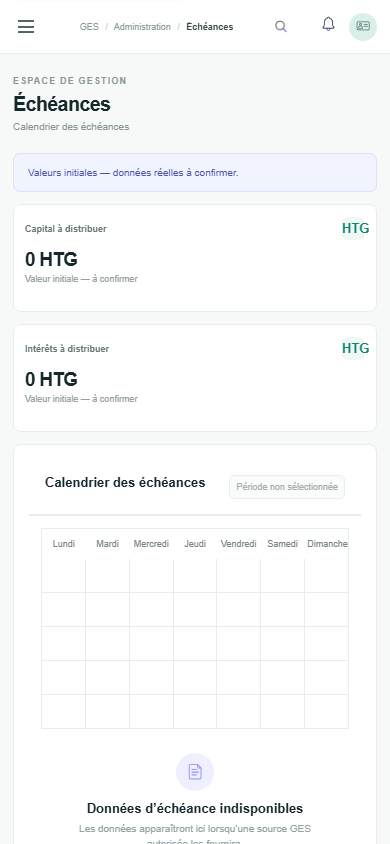
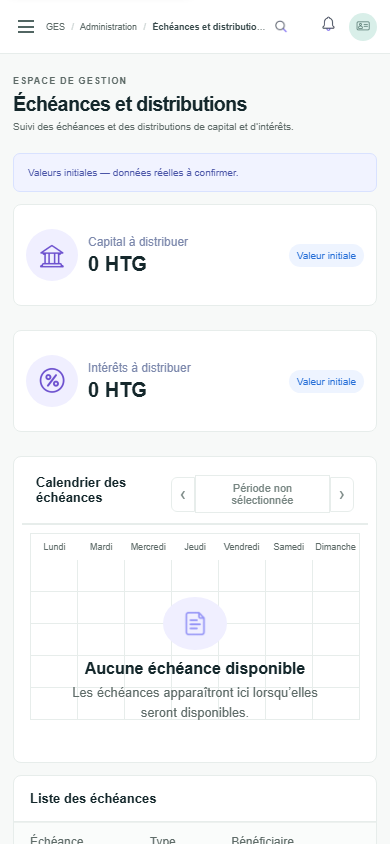
Align maturities view with MF-20

diff --git a/components/module-workspace.tsx b/components/module-workspace.tsx
@@ -6,9 +6,12 @@ import Image from "next/image";
 type ModulePage = {
   columns: string[];
   empty: string;
+  emptyDescription?: string;
   filters: string[];
   description: string;
+  title?: string;
   searchPlaceholder?: string;
+  showSearch?: boolean;
   tabs?: string[];
 };
 
@@ -28,12 +31,16 @@ const pages: Record<string, ModulePage> = {
   audit: { description: "Journal des événements administratifs disponibles.", filters: ["Toutes les actions", "Tous les acteurs", "Période"], columns: ["DATE ET HEURE", "ACTEUR", "ACTION", "ENTITÉ CONCERNÉE", "RÉSULTAT", "DÉTAILS"], empty: "Données d’audit indisponibles" },
 };
 
-function EmptyState({ title, searching }: { title: string; searching: boolean }) {
-  return <div className="module-empty"><div className="module-empty-icon"><Image src={`/assets/icons/${searching ? "search" : "document"}.webp`} alt="" width={20} height={20}/></div><h2>{searching ? "Résultats de recherche indisponibles" : title}</h2><p>{searching ? "Aucune source GES autorisée n’a fourni de données à filtrer." : "Les données apparaîtront ici lorsqu’une source GES autorisée les fournira."}</p></div>;
+function EmptyState({ title, searching, description }: { title: string; searching: boolean; description?: string }) {
+  return <div className="module-empty"><div className="module-empty-icon"><Image src={`/assets/icons/${searching ? "search" : "document"}.webp`} alt="" width={20} height={20}/></div><h2>{searching ? "Résultats de recherche indisponibles" : title}</h2><p>{searching ? "Aucune source GES autorisée n’a fourni de données à filtrer." : description ?? "Les données apparaîtront ici lorsqu’une source GES autorisée les fournira."}</p></div>;
 }
 
 function InitialValueCard({ label }: { label: string }) {
   return <section className="metric-card"><div className="metric-top"><span>{label}</span><span className="metric-symbol">HTG</span></div><strong>0 HTG</strong><small>Valeur initiale — à confirmer</small></section>;
+}
+
+function DistributionValueCard({ label, icon }: { label: string; icon: string }) {
+  return <section className="panel distribution-value-card"><div className="distribution-value-icon"><Image src={`/assets/icons/${icon}.webp`} alt="" width={28} height={28}/></div><div><span>{label}</span><strong>0 HTG</strong></div><small>Valeur initiale</small></section>;
 }
 
 export function ModuleWorkspace({ sectionKey, query, onQueryChange }: { sectionKey: string; query: string; onQueryChange: (value: string) => void }) {
@@ -54,9 +61,9 @@ export function ModuleWorkspace({ sectionKey, query, onQueryChange }: { sectionK
   </>;
   if (sectionKey === "echeances") return <>
     <div className="module-notice">Valeurs initiales — données réelles à confirmer.</div>
-    <div className="module-two-panels"><InitialValueCard label="Capital à distribuer"/><InitialValueCard label="Intérêts à distribuer"/></div>
-    <section className="panel module-subpanel"><div className="module-panel-header"><h2>Calendrier des échéances</h2><button disabled className="filter-button">Période non sélectionnée</button></div><div className="calendar-empty"><div className="calendar-weekdays">{["Lundi", "Mardi", "Mercredi", "Jeudi", "Vendredi", "Samedi", "Dimanche"].map((day) => <span key={day}>{day}</span>)}</div><div className="calendar-blank-grid" aria-hidden="true">{Array.from({length:35}, (_, index) => <span key={index}/>)}</div><EmptyState title="Données d’échéance indisponibles" searching={false}/></div></section>
-    <GenericTable sectionKey={sectionKey} page={{ description: "Échéances disponibles.", filters: [], columns: ["ÉCHÉANCE", "TYPE", "BÉNÉFICIAIRE", "MONTANT (HTG)", "STATUT"], empty: "Données d’échéance indisponibles" }} query={query} onQueryChange={onQueryChange} activeTab={activeTab} setActiveTab={setActiveTab}/>
+    <div className="module-two-panels distribution-values"><DistributionValueCard label="Capital à distribuer" icon="treasury"/><DistributionValueCard label="Intérêts à distribuer" icon="interest"/></div>
+    <section className="panel module-subpanel calendar-panel"><div className="module-panel-header"><h2>Calendrier des échéances</h2><div className="calendar-period-controls"><button type="button" disabled aria-label="Période précédente">‹</button><button type="button" disabled>Période non sélectionnée</button><button type="button" disabled aria-label="Période suivante">›</button></div></div><div className="calendar-empty"><div className="calendar-weekdays">{["Lundi", "Mardi", "Mercredi", "Jeudi", "Vendredi", "Samedi", "Dimanche"].map((day) => <span key={day}>{day}</span>)}</div><div className="calendar-blank-grid" aria-hidden="true">{Array.from({length:35}, (_, index) => <span key={index}/>)}</div><EmptyState title="Aucune échéance disponible" description="Les échéances apparaîtront ici lorsqu’elles seront disponibles." searching={false}/></div></section>
+    <GenericTable sectionKey={sectionKey} page={{ title: "Liste des échéances", description: "", filters: [], showSearch: false, columns: ["Échéance", "Type", "Bénéficiaire", "Montant (HTG)", "Statut"], empty: "Aucune échéance disponible", emptyDescription: "Les échéances apparaîtront ici lorsqu’elles seront disponibles." }} query={query} onQueryChange={onQueryChange} activeTab={activeTab} setActiveTab={setActiveTab}/>
   </>;
   if (sectionKey === "rapports") return <>
     <section className="panel module-subpanel"><div className="module-panel-header"><h2>Vue analytique</h2><div className="module-filter-row"><button disabled className="filter-button">Type de rapport</button><button disabled className="filter-button">Période non sélectionnée</button></div></div><EmptyState title="Aucune donnée de rapport disponible" searching={false}/></section>
@@ -73,5 +80,5 @@ export function ModuleWorkspace({ sectionKey, query, onQueryChange }: { sectionK
 }
 
 function GenericTable({ sectionKey, page, query, onQueryChange, activeTab, setActiveTab }: { sectionKey: string; page: ModulePage; query: string; onQueryChange: (value: string) => void; activeTab: number; setActiveTab: (value: number) => void }) {
-  return <section className="panel list-panel module-list-panel">{page.tabs && <div className="module-tabs">{page.tabs.map((tab, index) => <button key={tab} className={activeTab === index ? "selected" : ""} onClick={() => setActiveTab(index)}>{tab}</button>)}</div>}<div className="module-toolbar"><label className="filter-search"><Image src="/assets/icons/search.webp" alt="" width={16} height={16}/><input aria-label={`Rechercher dans ${sectionKey}`} placeholder={page.searchPlaceholder ?? `Rechercher ${sectionKey.replaceAll("-", " ")}…`} value={query} onChange={(event) => onQueryChange(event.target.value)}/></label><div className="module-filter-row">{page.filters.map((filter) => <button key={filter} className="filter-button" disabled>{filter.startsWith("Sélectionner une période") && <Image className="period-filter-icon" src="/assets/icons/calendar.webp" alt="" width={16} height={16}/>}<span className="filter-label">{filter}</span><span>⌄</span></button>)}</div></div><div className="table-wrap"><table><thead><tr>{page.columns.map((column, index) => <th key={column} className={column.includes("HTG") ? "align-right" : ""}>{column}</th>)}</tr></thead><tbody><tr><td colSpan={page.columns.length}><EmptyState title={page.empty} searching={query.trim().length > 0}/></td></tr></tbody></table></div></section>;
+  return <section className={`panel list-panel module-list-panel ${page.showSearch === false ? "no-list-search" : ""}`}>{page.title && <div className="module-panel-header"><div><h2>{page.title}</h2>{page.description && <p>{page.description}</p>}</div></div>}{page.tabs && <div className="module-tabs">{page.tabs.map((tab, index) => <button key={tab} className={activeTab === index ? "selected" : ""} onClick={() => setActiveTab(index)}>{tab}</button>)}</div>}{page.showSearch !== false && <div className="module-toolbar"><label className="filter-search"><Image src="/assets/icons/search.webp" alt="" width={16} height={16}/><input aria-label={`Rechercher dans ${sectionKey}`} placeholder={page.searchPlaceholder ?? `Rechercher ${sectionKey.replaceAll("-", " ")}…`} value={query} onChange={(event) => onQueryChange(event.target.value)}/></label><div className="module-filter-row">{page.filters.map((filter) => <button key={filter} className="filter-button" disabled>{filter.startsWith("Sélectionner une période") && <Image className="period-filter-icon" src="/assets/icons/calendar.webp" alt="" width={16} height={16}/>}<span className="filter-label">{filter}</span><span>⌄</span></button>)}</div></div>}<div className="table-wrap"><table><thead><tr>{page.columns.map((column, index) => <th key={column} className={column.includes("HTG") ? "align-right" : ""}>{column}</th>)}</tr></thead><tbody><tr><td colSpan={page.columns.length}><EmptyState title={page.empty} description={page.emptyDescription} searching={query.trim().length > 0}/></td></tr></tbody></table></div></section>;
 }

diff --git a/app/globals.css b/app/globals.css
@@ -64,3 +64,6 @@ a:focus-visible,button:focus-visible,input:focus-visible,select:focus-visible,te
 .subscription-detail-grid{gap:12px;margin:14px 0 18px}.subscription-detail-grid .detail-data-card{min-height:198px;align-items:stretch;justify-content:flex-start;padding:18px 22px;text-align:left}.subscription-detail-grid .detail-data-card>h2,.subscription-actions-panel>h2{font:700 16px Arial,Helvetica,sans-serif;margin:0}.subscription-detail-state{flex:1;display:flex;align-items:center;justify-content:center;flex-direction:column;text-align:center}.subscription-detail-state .detail-data-icon{width:64px;height:64px;margin-bottom:10px;background:#eef1f5}.subscription-detail-state .detail-data-icon img{width:30px;height:30px;filter:brightness(0) saturate(100%) invert(40%) sepia(13%) saturate(1200%) hue-rotate(188deg) brightness(90%)}.subscription-detail-state strong{font-size:16px;margin-bottom:3px}.subscription-detail-state p,.subscription-actions-empty p{margin:0;color:#7c88ac;font-size:14px;line-height:1.45}.subscription-actions-panel{padding:16px 20px;border-style:dashed}.subscription-actions-empty{display:flex;align-items:center;justify-content:center;flex-direction:column;text-align:center;padding:15px 0 4px}.subscription-actions-empty img{margin-bottom:7px;opacity:.6}.subscription-actions-empty strong{font-size:14px}.subscription-actions-empty p{margin-top:3px}
 .contract-terms-card{min-height:178px;padding:16px 20px}.contract-terms-card>h2,.contract-secondary-card>h2,.contract-events-card>h2{font:700 16px Arial,Helvetica,sans-serif;margin:0}.contract-terms-state{height:130px;display:flex;align-items:center;justify-content:center;flex-direction:column;text-align:center}.contract-terms-state .detail-data-icon,.contract-secondary-state .detail-data-icon{width:60px;height:60px;margin-bottom:6px;background:#eef1f5}.contract-terms-state .detail-data-icon img,.contract-secondary-state .detail-data-icon img,.contract-event-state .detail-data-icon img{width:30px;height:30px;filter:brightness(0) saturate(100%) invert(40%) sepia(13%) saturate(1200%) hue-rotate(188deg) brightness(90%)}.contract-terms-state strong,.contract-value-state strong,.contract-secondary-state strong,.contract-event-state strong{font-size:14px}.contract-terms-state p,.contract-value-state p,.contract-secondary-state p,.contract-event-state p{max-width:460px;margin:3px 0 0;color:#7c88ac;font-size:14px;line-height:1.4}.contract-value-grid{display:grid;grid-template-columns:repeat(4,minmax(0,1fr));gap:10px;margin:10px 0}.contract-value-card{min-height:156px;padding:14px 16px}.contract-value-head{display:flex;align-items:center;gap:12px}.contract-value-icon{width:60px;height:60px;flex:0 0 60px;border-radius:50%;display:grid;place-items:center;background:#eef1f5}.contract-value-icon img{width:30px;height:30px;filter:brightness(0) saturate(100%) invert(40%) sepia(13%) saturate(1200%) hue-rotate(188deg) brightness(90%)}.contract-value-head h2{margin:0;color:#7c88ac;font:500 14px Arial,Helvetica,sans-serif}.contract-value-state{text-align:center;padding-top:2px}.contract-value-state p{font-size:12px;line-height:1.4}.contract-secondary-grid{display:grid;grid-template-columns:repeat(2,minmax(0,1fr));gap:10px;margin:10px 0}.contract-secondary-card{min-height:160px;padding:14px 18px}.contract-secondary-state{display:flex;align-items:center;justify-content:center;flex-direction:column;text-align:center}.contract-secondary-state p{max-width:400px;font-size:13px}.contract-events-card{min-height:90px;padding:14px 18px}.contract-event-state{display:flex;align-items:center;justify-content:center;gap:16px;min-height:56px}.contract-event-state .detail-data-icon{width:58px;height:58px;background:#eef1f5}.contract-event-state p{max-width:360px;font-size:13px}@media(max-width:900px){.contract-value-grid{grid-template-columns:repeat(2,minmax(0,1fr))}}@media(max-width:700px){.contract-value-grid,.contract-secondary-grid{grid-template-columns:1fr}.contract-value-card{min-height:145px}.contract-event-state{align-items:flex-start}.contract-events-card{padding:14px}}
 .contract-terms-card{min-height:160px}.contract-terms-state{height:112px}.contract-value-card{min-height:145px}
+.distribution-value-card{min-height:102px;padding:15px 22px;display:flex;align-items:center;gap:16px;margin-bottom:12px}.distribution-value-icon{height:64px;width:64px;flex:0 0 64px;border-radius:50%;display:grid;place-items:center;background:#f0efff}.distribution-value-icon img{width:32px;height:32px;filter:brightness(0) saturate(100%) invert(35%) sepia(28%) saturate(2180%) hue-rotate(222deg) brightness(94%)}.distribution-value-card>div:nth-child(2){display:flex;flex-direction:column;gap:4px}.distribution-value-card>div:nth-child(2) span{color:#7c88ac;font-size:14px}.distribution-value-card>div:nth-child(2) strong{font:700 24px Manrope,Arial,sans-serif}.distribution-value-card>small{margin-left:auto;padding:7px 12px;border-radius:18px;background:#eef4ff;color:#2870d8;font-size:12px}.calendar-period-controls{display:flex;align-items:center}.calendar-period-controls button{min-height:34px;padding:6px 12px;border:1px solid var(--line);background:#fff;color:#778582;font-size:11px}.calendar-period-controls button:first-child{border-radius:6px 0 0 6px;font-size:18px}.calendar-period-controls button:last-child{border-radius:0 6px 6px 0;font-size:18px}.calendar-period-controls button:nth-child(2){min-width:185px}.calendar-empty{position:relative;padding:12px}.calendar-weekdays span{padding:11px 3px;font-size:11px}.calendar-blank-grid{grid-template-rows:repeat(5,40px);min-height:200px}.calendar-empty .module-empty{position:absolute;top:54px;left:12px;right:12px;bottom:12px;min-height:0;height:auto;background:transparent}.calendar-empty .module-empty-icon{width:64px;height:64px}.calendar-empty .module-empty-icon img{width:30px;height:30px}.calendar-empty .module-empty h2{font-size:16px}.calendar-empty .module-empty p{font-size:13px;max-width:480px}@media(max-width:700px){.distribution-value-card{padding:12px;gap:10px}.distribution-value-icon{width:52px;height:52px;flex-basis:52px}.distribution-value-card>div:nth-child(2) span{font-size:12px}.distribution-value-card>div:nth-child(2) strong{font-size:20px}.distribution-value-card>small{font-size:10px;padding:6px 8px}.calendar-period-controls button:nth-child(2){min-width:135px;padding:6px}.calendar-period-controls button{padding:6px 8px}.calendar-empty{padding:8px}.calendar-empty .module-empty{left:8px;right:8px;top:48px;bottom:8px}.calendar-weekdays span{font-size:9px;padding:8px 1px}.calendar-blank-grid{grid-template-rows:repeat(5,32px);min-height:160px}}
+.module-list-panel.no-list-search .module-empty{min-height:145px}.module-list-panel.no-list-search .module-toolbar{display:none}
+.calendar-panel{padding:8px}.calendar-panel .module-panel-header{padding:10px 14px}.calendar-panel .calendar-empty{padding-bottom:4px}

diff --git a/components/admin-shell.tsx b/components/admin-shell.tsx
@@ -25,7 +25,7 @@ const pages: Record<string, { title: string; subtitle: string }> = {
   membres: { title: "Membres", subtitle: "Consultez et gérez les comptes membres." }, kyc: { title: "Conformité KYC", subtitle: "Vérification des dossiers" },
   "vue-financiere": { title: "Vue financière générale", subtitle: "Aperçu de la position financière de GES Admin en HTG et USD." }, tresorerie: { title: "Trésorerie", subtitle: "Positions de trésorerie" }, transactions: { title: "Transactions", subtitle: "Consultez et gérez l’ensemble des transactions." },
   "depots-retraits": { title: "Dépôts et retraits", subtitle: "Suivi des mouvements entrants et sortants" }, "grand-livre": { title: "Grand livre et rapprochement", subtitle: "Consultation du grand livre comptable et rapprochement des soldes." }, plans: { title: "Catalogue des plans d’investissement", subtitle: "Vue d’ensemble des plans d’investissement autorisés sur GES Admin." },
-  souscriptions: { title: "Souscriptions", subtitle: "Vue d’ensemble des souscriptions effectuées sur GES Admin." }, contrats: { title: "Contrats d’investissement", subtitle: "Liste des contrats d’investissement enregistrés dans GES Admin." }, echeances: { title: "Échéances", subtitle: "Calendrier des échéances" }, financements: { title: "Financements", subtitle: "Suivi des financements" }, "plans/nouveau": { title: "Nouveau plan d’investissement", subtitle: "Créer un nouveau plan d’investissement (brouillon)." },
+  souscriptions: { title: "Souscriptions", subtitle: "Vue d’ensemble des souscriptions effectuées sur GES Admin." }, contrats: { title: "Contrats d’investissement", subtitle: "Liste des contrats d’investissement enregistrés dans GES Admin." }, echeances: { title: "Échéances et distributions", subtitle: "Suivi des échéances et des distributions de capital et d’intérêts." }, financements: { title: "Financements", subtitle: "Suivi des financements" }, "plans/nouveau": { title: "Nouveau plan d’investissement", subtitle: "Créer un nouveau plan d’investissement (brouillon)." },
   risques: { title: "Risques", subtitle: "Suivi des alertes et contrôles" }, documents: { title: "Documents", subtitle: "Bibliothèque documentaire" }, support: { title: "Support", subtitle: "Demandes d’assistance" }, rapports: { title: "Rapports", subtitle: "Rapports de gestion" }, equipe: { title: "Équipe", subtitle: "Accès et rôles de l’équipe" }, audit: { title: "Audit", subtitle: "Journal des actions administratives" }, parametres: { title: "Paramètres", subtitle: "Configuration de l’espace" }, notifications: { title: "Notifications", subtitle: "Centre de notifications administratives" }, "roles-permissions": { title: "Rôles et permissions", subtitle: "Les permissions effectives sont contrôlées côté serveur" }, "integrations-flexicash": { title: "Intégration FlexiCash", subtitle: "Les espaces GES et FlexiCash restent séparés" },
 };
 

diff --git a/design/project-status.md b/design/project-status.md
@@ -57,3 +57,5 @@ Revue MF-17 (29 octobre 2026) : lien de retour avant le titre, titre/sous-titre 
 Revue MF-18 (29 octobre 2026) : sous-titre, recherche, filtres (dont icone de periode) et huit colonnes rapproches de la reference. Aucun contrat ni terme financier fictif; principal affiche en HTG. Captures desktop/mobile confirment l'etat vide et l'absence de debordement horizontal du viewport (1440/390 px).
 
 Revue MF-19 (29 octobre 2026) : retour avant le titre; conditions versionnees, huit valeurs, restrictions, documents et evenements affiches comme indisponibles sans contrat selectionne. Aucun terme financier, date ou evenement fictif. Principal identifie en HTG. Captures desktop/mobile; Chrome confirme le titre et aucune largeur de page superieure au viewport (1440/390 px).
+
+Revue MF-20 (29 octobre 2026) : calendrier sans jour numerote ni date fictive, controles de periode desactives, liste des echeances distincte et etat vide clarifie. Capital a distribuer et interets a distribuer restent a 0 HTG, marques comme valeurs initiales a confirmer. Chrome confirme l'etat vide et aucune largeur de page superieure au viewport (1440/390 px).

diff --git a/design/qa/README.md b/design/qa/README.md
@@ -153,3 +153,7 @@ Captures MF-17 mises a jour : admin-souscriptions-dossier-1440x1000.png et admin
 Captures MF-18 : admin-contrats-1440x1000.png et admin-contrats-390x844.png. Le registre est vide, le principal est libelle en HTG et les filtres de statut, plan et periode restent inactifs sans source de donnees.
 
 Captures MF-19 : admin-contrats-dossier-1440x1000.png et admin-contrats-dossier-390x844.png. Les termes, montants, dates, restrictions, documents et evenements restent indisponibles sans contrat selectionne; aucun chiffre fictif n'est affiche.
+
+Captures MF-20 : admin-echeances-1440x1000.png et admin-echeances-390x844.png. Les deux valeurs financieres sont 0 HTG, marquees valeur initiale; calendrier et liste restent sans date, echeance ni mouvement fictif. La periode n'est pas selectionnee et ses commandes sont desactivees.
+
+Le controle hasUnavailableState de capture-route.cjs reconnait aussi les libelles explicites du catalogue vide (ex. aucun contrat/aucune echeance a afficher), et pas uniquement le mot Donnees.
